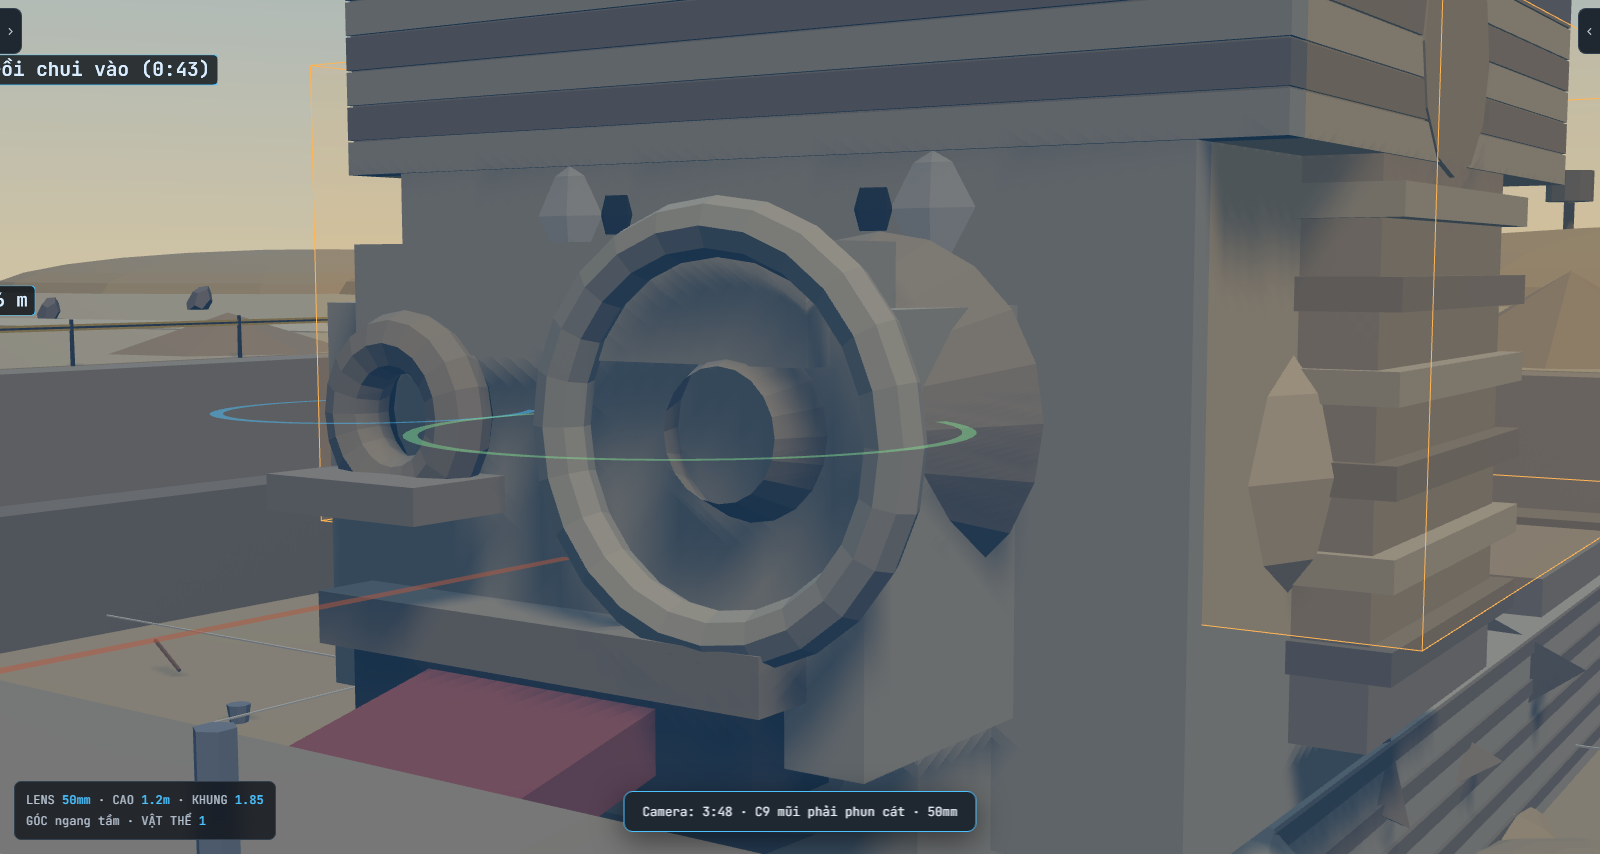
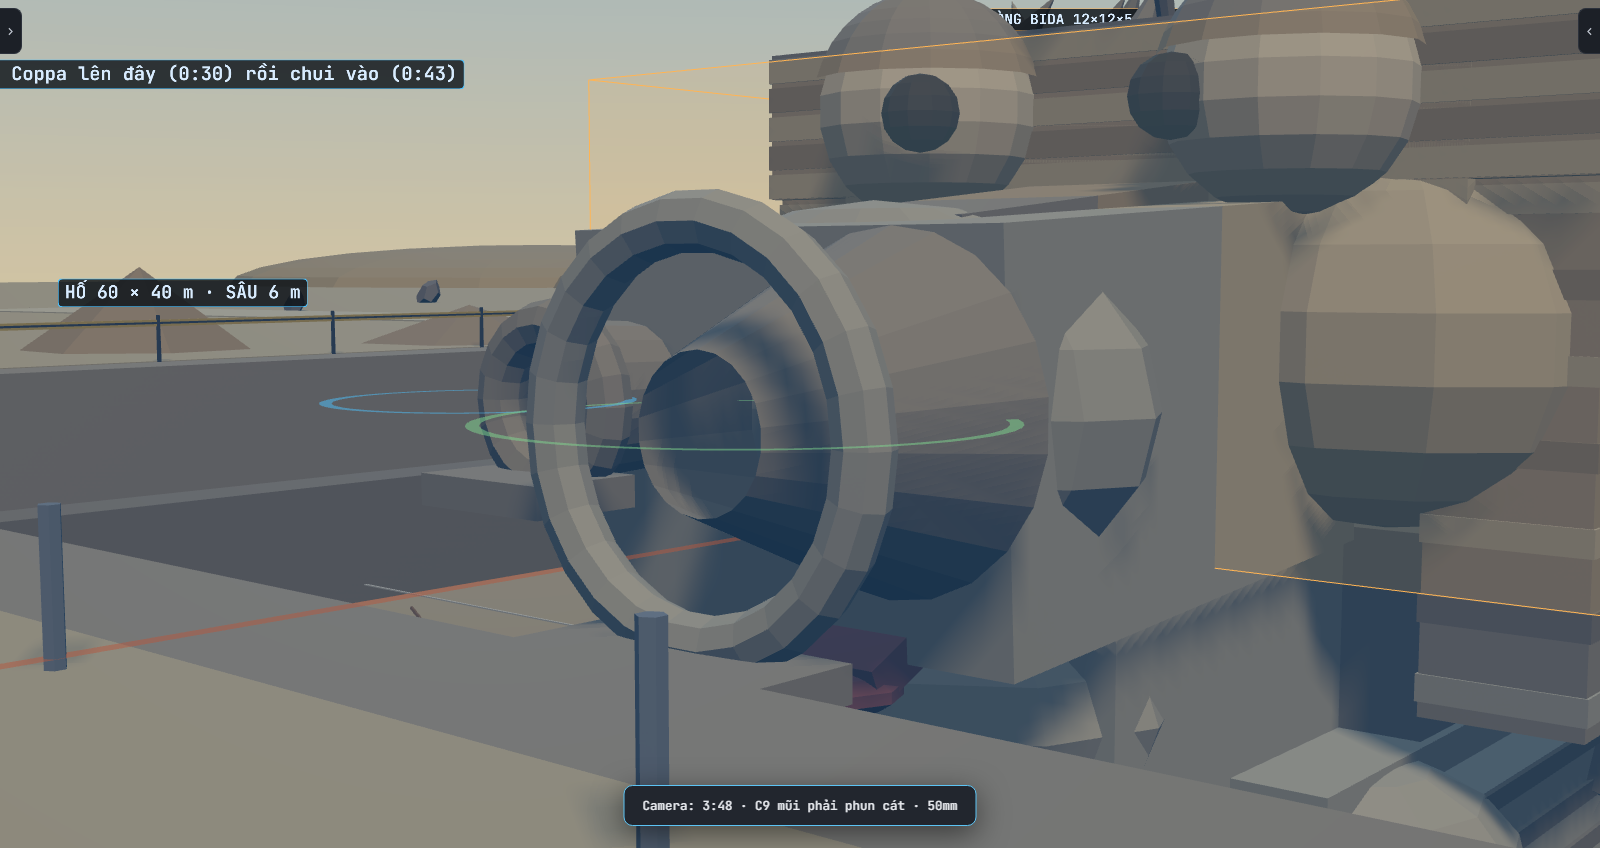
C2: dung lai dau nhan su theo ref Coppa NGUA, lo mui co go dung
Theo anh tham chieu (mat na vang Tutankhamun dau ngua): mom dai nho ra
truoc 7 m, HAI LO MUI o mat truoc mom, mat le loi (mat phai co mang toi),
luoi the, rau ben co dai, khan nemes soc, bom tua tua giua hai tai nhon,
ran ho mang + ken ken tren tran. Van cao dung 9 m (cam -3 -> dinh +6).

Yeu cau chinh: moi lo mui co GO DUNG DUOC (ban cong nho phia truoc) de
dat Coppa 1.0 m len:
- lo mui TRAI o1.2 (x=-1.6): go o y=0.6 -> Coppa dung len la dau vua lot
  mieng lo (chui vao 0:43)
- lo mui PHAI loa ken o3 (x=+1.4) LOE RA NGOAI, go o y=-0.3
Toa do hai lo mui dat thanh hang so C2_NOSE_L/R; ong ken trong dau, vong
zone va 3 bookmark ngam vao mui bam theo. Mat na vang trong phong bida
(C8) doi thanh mat ngua cho khop.

diff --git a/jenny-pixel-studio.html b/jenny-pixel-studio.html
@@ -3467,7 +3467,8 @@ const C2={
 };
 const C2_PIT={w:60,d:40,deep:6};              // hố 60 × 40, sâu 6 m
 const C2_HEAD={h:9,w:10,dp:10,chin:-3};       // đầu 9 m, cằm y=-3, đỉnh bờm y=+6
-const C2_FACE_Z=13.2;                         // mặt phẳng trước của mặt tượng (mõm + gờ mũi)
+const C2_FACE_Z=15.3;                         // mặt trước mõm ngựa + lỗ mũi nhô ra
+const C2_NOSE_L=[-1.6,4.2,7.4], C2_NOSE_R=[1.4,4.2,7.4];   // lỗ mũi trái (ø1.2) / phải (loe ø3), cục bộ đầu
 const C2_NOSE_Y=1.2;                          // cao độ hai lỗ mũi
 const C2_TAPE_Z=28;                           // dây phong tỏa: cách chân tượng (z=+18) 10 m
 const C2_POST_Z=26;                           // bục gác, ngay TRONG dây
@@ -3607,89 +3608,74 @@ function buildC2Body(){
   return g;
 }
 
-/* ---- ĐẦU TƯỢNG MẶT COPPA — gốc cục bộ ở CẰM, dựng lên 9 m ----
-   Đặt ở [0, -3, 7] trong set → cằm y=-3, đỉnh bờm y=+6.                */
+/* ---- ĐẦU TƯỢNG MẶT COPPA (NGỰA) — gốc cục bộ ở CẰM, cao 9 m, theo ref mặt nạ vàng ----
+   Mõm dài nhô ra trước, HAI LỖ MŨI ở đầu mõm và mỗi lỗ có GỜ ĐỨNG ĐƯỢC (ban công nhỏ)
+   để đặt Coppa 1.0 m lên. Mắt lé lồi (một bên mảng tối), lưỡi thè, râu bện, nemes sọc,
+   bờm tua tủa, tai nhọn, rắn hổ mang trên trán. Đặt ở [0,-3,7] → cằm y=-3, đỉnh y=+6. */
 function buildC2Head(){
   const g=new THREE.Group();
-  const W=C2_HEAD.w,H=C2_HEAD.h,DP=C2_HEAD.dp;
-  // khối đầu
-  const skull=box(W-1.4,H*.72,DP-1.2,C2.lime);skull.position.set(0,H*.42,-.3);g.add(skull);
-  // má bầu hai bên (nét Coppa)
-  [-1,1].forEach(s=>{
-    const cheek=gmesh(new THREE.SphereGeometry(2.1,10,8),C2.lime);
-    cheek.scale.set(1,.9,.85);cheek.position.set(s*2.6,3.6,1.8);g.add(cheek);
-  });
-  // mõm nhô ra trước
-  const muzzle=box(5.6,3.4,4.8,C2.lime);muzzle.position.set(0,3.4,4.0);g.add(muzzle);  // nhô 2.1 m khỏi trán
-  // HÀM + CẰM: đáy khối này chính là cằm (y=0 cục bộ) — mốc để đầu cao đúng 9 m
-  const jaw=box(5.2,2.4,5.0,C2.lime);jaw.position.set(0,1.2,2.8);g.add(jaw);
-  const chin=gmesh(new THREE.SphereGeometry(1.9,10,8),C2.lime);
-  chin.scale.set(1.25,.7,.9);chin.position.set(0,1.33,4.3);g.add(chin);  // đáy cầu chạm đúng y=0
-  const neck=box(6.2,2.6,3.4,C2.lime2);neck.position.set(0,1.3,-1.2);g.add(neck);
-  // khăn NEMES + bờm: hai vạt xuôi xuống hai vai
-  const nemes=box(W,2.4,DP-.6,C2.lime2);nemes.position.set(0,H-1.2,-.6);g.add(nemes);
-  for(let i=0;i<7;i++){
-    const st=box(W+.06,.34,DP-.5,i%2?C2.lime3:C2.lime);
-    st.position.set(0,H-2.3-i*.001,-.6);st.position.y=H-.3-i*.36;st.castShadow=false;g.add(st);
-  }
-  [-1,1].forEach(s=>{
-    const lap=box(1.5,5.2,4.2,C2.lime2);lap.position.set(s*(W/2-.75),H*.42,-.4);g.add(lap);
-    for(let i=0;i<6;i++){
-      const st=box(1.95,.3,4.45,i%2?C2.lime3:C2.lime);
-      st.position.set(s*(W/2-.75),H*.42+2.2-i*.8,-.4);st.castShadow=false;g.add(st);
-    }
-  });
-  // tai tròn nhô hai bên khăn
-  [-1,1].forEach(s=>{
-    const ear=gmesh(new THREE.CylinderGeometry(1.15,1.15,.7,12),C2.lime2);
-    ear.rotation.z=Math.PI/2;ear.position.set(s*(W/2-.3),H-1.6,-.4);g.add(ear);
-  });
-  // MẮT LÉ — hai con ngươi dồn về giữa (dấu ấn design Coppa)
-  [-1,1].forEach(s=>{
-    const EY=5.9;                                  // mắt cao 5.9 cục bộ = y 2.9 — cách mũi 1.7 m
-    const socket=gmesh(new THREE.SphereGeometry(1.5,12,10),C2.lime2);
-    socket.scale.z=.5;socket.position.set(s*2.0,EY,3.2);g.add(socket);
-    const eye=gmesh(new THREE.SphereGeometry(1.22,12,10),C2.bone);
-    eye.scale.z=.45;eye.position.set(s*2.0,EY,3.6);g.add(eye);
-    const pupil=gmesh(new THREE.SphereGeometry(.46,10,8),'#2a2620');
-    pupil.scale.z=.4;pupil.position.set(s*1.42,EY,3.94);g.add(pupil);   // dồn vào trong = lé
-    const brow=box(3.0,.45,.5,C2.lime3);brow.position.set(s*2.0,EY+1.55,3.5);brow.rotation.z=-s*.14;g.add(brow);
-  });
-  // ── HAI LỖ MŨI: trái nhỏ ø1.2 (ngồi + chui lọt), phải loe loa kèn ø3 ──
-  const ny=C2_NOSE_Y-C2_HEAD.chin;            // đổi sang toạ độ cục bộ của đầu
-  const nz=6.2;                               // mặt trước của mõm
-  // MŨI TRÁI (−X = trái khung khi nhìn thẳng mặt tượng)
-  const lnose=new THREE.Group();lnose.position.set(-1.4,ny,nz);
-  const lrim=gmesh(new THREE.TorusGeometry(.6,.26,8,20),C2.lime2);lrim.position.z=.6;lnose.add(lrim);
-  const lhole=gmesh(new THREE.CylinderGeometry(.6,.52,2.6,16,1,true),'#2b2720');
-  lhole.rotation.x=Math.PI/2;lhole.position.z=-.6;lhole.material.side=THREE.DoubleSide;lnose.add(lhole);
-  const lledge=box(1.7,.3,1.0,C2.lime2);lledge.position.set(0,-.62,.85);lnose.add(lledge); // gờ ngồi vắt vẻo
+  const H=C2_HEAD.h,W=C2_HEAD.w;
+  const band=(w,h,d,x,y,z,c)=>{const b=box(w,h,d,c);b.position.set(x,y,z);g.add(b);return b;};
+  // sọ + hai má bầu
+  band(7.6,4.4,6.0,0,5.6,-1.4,C2.lime);
+  [-1,1].forEach(sx=>{const ch=gmesh(new THREE.SphereGeometry(2.3,12,9),C2.lime);ch.scale.set(1,.85,.9);ch.position.set(sx*2.7,4.6,.6);g.add(ch);});
+  // cổ/họng đỡ đầu + hàm dưới (đáy = cằm y=0)
+  band(6.2,2.6,4.2,0,1.3,-1.6,C2.lime2);
+  band(4.4,2.6,5.6,0,1.3,2.4,C2.lime);
+  const chin=gmesh(new THREE.SphereGeometry(2.0,10,8),C2.lime);chin.scale.set(1.15,.62,1);chin.position.set(0,1.24,4.6);g.add(chin);
+  // MÕM NGỰA dài, nhô 7 m về trước, hơi chúc xuống
+  const muzzle=box(4.8,3.6,6.4,C2.lime);muzzle.position.set(0,4.1,4.0);muzzle.rotation.x=.06;g.add(muzzle);
+  const tip=gmesh(new THREE.SphereGeometry(2.6,14,10),C2.lime);tip.scale.set(1.12,.7,.55);tip.position.set(0,4.15,5.85);g.add(tip);   // mặt trước ~z 7.3
+  const bridge=box(2.2,.7,5.6,C2.lime2);bridge.position.set(0,5.75,3.2);bridge.rotation.x=.1;g.add(bridge);   // sống mũi — đường leo
+  // ── HAI LỖ MŨI ở đầu mõm + GỜ ĐỨNG ──
+  const [lx,ny,nz]=C2_NOSE_L,[rx]=C2_NOSE_R;
+  const lnose=new THREE.Group();lnose.position.set(lx,ny,nz);
+  const ltube=gmesh(new THREE.CylinderGeometry(.72,.68,.9,18,1,true),C2.lime2);ltube.rotation.x=Math.PI/2;ltube.position.z=.45;ltube.material.side=THREE.DoubleSide;lnose.add(ltube);
+  const lrim=gmesh(new THREE.TorusGeometry(.68,.22,8,20),C2.lime2);lrim.position.z=.9;lnose.add(lrim);
+  const lhole=gmesh(new THREE.CircleGeometry(.6,18),'#2b2720');lhole.position.z=.02;lnose.add(lhole);               // miệng lỗ tối (ø1.2)
+  const lledge=box(1.5,.28,1.1,C2.lime2);lledge.position.set(0,-.74,1.2);lnose.add(lledge);          // gờ đứng phía trước, mặt trên y = ny-0.6
   g.add(lnose);
-  // MŨI PHẢI (+X) — loe như loa kèn, miệng ø3 m
-  const rnose=new THREE.Group();rnose.position.set(1.8,ny,nz);
-  const bell=gmesh(new THREE.CylinderGeometry(1.5,.5,2.2,20,1,true),C2.lime2);
-  bell.rotation.x=-Math.PI/2;bell.position.z=-.5;bell.material.side=THREE.DoubleSide;rnose.add(bell);
-  const bellRim=gmesh(new THREE.TorusGeometry(1.5,.22,8,24),C2.lime);bellRim.position.z=.6;rnose.add(bellRim);
-  const throat=gmesh(new THREE.CylinderGeometry(.5,.34,1.6,12,1,true),'#241f19');
-  throat.rotation.x=Math.PI/2;throat.position.z=-2.2;throat.material.side=THREE.DoubleSide;rnose.add(throat);
+  const rnose=new THREE.Group();rnose.position.set(rx,ny,nz);
+  const bell=gmesh(new THREE.CylinderGeometry(1.5,.6,2.2,22,1,true),C2.lime2);bell.rotation.x=-Math.PI/2;bell.position.z=1.1;bell.material.side=THREE.DoubleSide;rnose.add(bell);   // loe ra ngoài, miệng ø3 ở z+2.2
+  const bellRim=gmesh(new THREE.TorusGeometry(1.5,.22,8,26),C2.lime);bellRim.position.z=2.2;rnose.add(bellRim);
+  const throat=gmesh(new THREE.CircleGeometry(.58,16),'#241f19');throat.position.z=.02;rnose.add(throat);          // họng tối trong loa
+  const rledge=box(2.4,.28,1.1,C2.lime2);rledge.position.set(0,-1.64,2.5);rnose.add(rledge);         // gờ đứng dưới miệng loa
   g.add(rnose);
-  // sống mũi nối hai lỗ (đường leo của Coppa)
-  const bridge=box(4.6,.9,1.2,C2.lime);bridge.position.set(.2,ny+.95,nz-.1);g.add(bridge);
-  // MIỆNG + LƯỠI ĐÁ dài 3 m (chỉ là dấu ấn design, không dùng làm gag)
-  const mouth=box(4.2,.9,1.0,'#3a342b');mouth.position.set(0,ny-2.3,nz+.1);g.add(mouth);
-  const lip=box(4.6,.45,1.2,C2.lime2);lip.position.set(0,ny-1.75,nz+.2);g.add(lip);
-  const tongue=box(2.4,.5,3.0,'#a8564e');
-  tongue.position.set(0,ny-2.55,nz+1.5);tongue.rotation.x=.22;g.add(tongue);
-  const tongueTip=gmesh(new THREE.SphereGeometry(1.2,10,8),'#a8564e');
-  tongueTip.scale.set(1,.2,.7);tongueTip.position.set(0,ny-3.15,nz+2.9);g.add(tongueTip);
-  // phong hóa + vết nứt
-  const R=rnd(43);
-  for(let i=0;i<12;i++){
-    const side=i%2?1:-1;
-    const c=box(.16,.5+R()*1.5,.16,C2.crack);
-    c.position.set(side*(W/2-1.0),H*.18+R()*H*.55,-3.2+R()*5.4);
-    c.rotation.set(0,0,(R()-.5)*.7);c.castShadow=false;g.add(c);
+  // MẮT LÉ LỒI: hai cầu to hai bên sọ, con ngươi dồn vào giữa; mắt phải có MẢNG TỐI quanh
+  [-1,1].forEach(sx=>{
+    const eye=gmesh(new THREE.SphereGeometry(1.25,14,11),C2.bone);eye.position.set(sx*2.2,7.1,2.1);g.add(eye);
+    const pupil=gmesh(new THREE.SphereGeometry(.42,10,8),'#2a2620');pupil.position.set(sx*1.5,7.0,3.15);g.add(pupil);
+    const lid=gmesh(new THREE.SphereGeometry(1.32,14,8,0,Math.PI*2,0,Math.PI*.42),C2.lime2);lid.position.set(sx*2.2,7.15,2.1);g.add(lid);
+  });
+  const patch=gmesh(new THREE.CylinderGeometry(1.75,1.75,.12,20),'#4a4237');patch.rotation.x=Math.PI/2;patch.position.set(2.2,7.1,1.5);g.add(patch);
+  // LƯỠI THÈ dưới mõm, lệch phải như ref
+  const tongue=box(1.3,.36,2.6,'#a8564e');tongue.position.set(.7,2.5,6.3);tongue.rotation.x=.42;g.add(tongue);
+  const tTip=gmesh(new THREE.SphereGeometry(.75,10,7),'#a8564e');tTip.scale.set(1,.3,.8);tTip.position.set(.7,1.9,7.4);g.add(tTip);
+  // RÂU BỆN từ cằm rủ xuống, có đai
+  const beard=cyl(.5,.42,2.5,C2.lime2,10);beard.position.set(0,-1.1,3.75);beard.rotation.x=.18;g.add(beard);
+  for(let k=0;k<4;k++){const r=torus3(.52,.07,C2.lime3,14);r.rotation.x=.18;r.position.set(0,-.3-k*.62,3.6+k*.11);g.add(r);}
+  const bTip=gmesh(new THREE.SphereGeometry(.55,10,8),C2.lime3);bTip.position.set(0,-2.4,4.05);g.add(bTip);
+  // KHĂN NEMES: đỉnh + hai vạt rủ xuống vai, sọc ngang
+  band(W,1.8,6.4,0,H-1.9,-1.6,C2.lime2);
+  for(let k=0;k<5;k++)band(W+.06,.3,6.45,0,H-1.2-k*.36,-1.6,k%2?C2.lime3:C2.lime).castShadow=false;
+  [-1,1].forEach(sx=>{
+    band(1.6,5.4,4.4,sx*(W/2-.8),H*.4,-.8,C2.lime2);
+    for(let k=0;k<7;k++)band(1.65,.28,4.45,sx*(W/2-.8),H*.4+2.4-k*.8,-.8,k%2?C2.lime3:C2.lime).castShadow=false;
+  });
+  // BỜM tua tủa giữa hai tai + TAI NHỌN
+  const R=rnd(53);
+  for(let k=0;k<11;k++){
+    const c=cone(.42,1.6,C2.lime2,6);c.position.set(-3+k*.6,H-1.6+.8,-1.6+(R()-.5)*1.4);c.rotation.set((R()-.5)*.5,0,(k-5)*.13);g.add(c);
   }
+  [-1,1].forEach(sx=>{const ear=cone(.7,2.2,C2.lime,8);ear.position.set(sx*2.9,H-1.2,-1.2);ear.rotation.z=-sx*.35;g.add(ear);
+    const inner=cone(.4,1.5,C2.lime3,8);inner.position.set(sx*2.9,H-1.35,-.95);inner.rotation.z=-sx*.35;g.add(inner);});
+  // RẮN HỔ MANG + KỀN KỀN trên trán
+  const cobra=cyl(.14,.1,1.5,C2.lime3,8);cobra.position.set(.45,H-.3,1.6);cobra.rotation.x=.3;g.add(cobra);
+  const hood=gmesh(new THREE.SphereGeometry(.42,8,6),C2.lime3);hood.scale.set(1,1.3,.5);hood.position.set(.45,H+.2,1.75);g.add(hood);
+  const vul=gmesh(new THREE.SphereGeometry(.3,8,6),C2.lime3);vul.position.set(-.5,H-.2,1.7);g.add(vul);
+  const beak=cone(.12,.5,C2.lime3,6);beak.rotation.x=Math.PI/2;beak.position.set(-.5,H-.2,2.1);g.add(beak);
+  // vết nứt phong hóa ở hai vạt khăn
+  for(let k=0;k<10;k++){const c=box(.16,.5+R()*1.5,.16,C2.crack);c.position.set((k%2?1:-1)*(W/2-.9),H*.2+R()*H*.5,-3+R()*4.4);c.rotation.z=(R()-.5)*.6;c.castShadow=false;g.add(c);}
   g.userData.h=H;
   return g;
 }
@@ -3698,7 +3684,7 @@ function buildC2Head(){
    Ẩn trong đầu; muốn xem thì tắt bộ phận "Đầu tượng" trong danh sách.  */
 function buildC2Horn(){
   const g=new THREE.Group();
-  const ny=C2_NOSE_Y-C2_HEAD.chin, nz=3.4;
+  const ny=C2_NOSE_L[1], nz=C2_NOSE_L[2];
   // khoang phòng bida 8 × 8 × 4 m (set 3 nằm đúng chỗ này)
   // phòng bida đã nới lên 12×12×5 — LỚN HƠN đầu tượng 10 m. Khung vẽ đúng cỡ để thấy chênh lệch:
   // hoặc chấp nhận cheat hoạt hình (trong rộng hơn ngoài), hoặc phóng đầu tượng lên ~14 m.
@@ -3712,11 +3698,11 @@ function buildC2Horn(){
   // Hai lỗ mũi ĐỔ THẲNG vào phòng (chỉ đạo: cửa hang chính là hai lỗ mũi).
   // Phòng bida là khoang cộng hưởng: tiếng xì vào mũi trái, vang trong phòng, phụt ra mũi phải.
   const curve=new THREE.CatmullRomCurve3([
-    new THREE.Vector3(-1.4,ny,nz-.4),
-    new THREE.Vector3(-1.4,ny+.2,-1.0),
-    new THREE.Vector3(-0.2,ny+.4,-2.4),
-    new THREE.Vector3( 1.2,ny+.2,-1.0),
-    new THREE.Vector3( 1.8,ny,nz-.8)
+    new THREE.Vector3(C2_NOSE_L[0],ny,nz-.6),
+    new THREE.Vector3(-1.6,ny+.1,2.0),
+    new THREE.Vector3(-0.2,ny+.5,-2.4),
+    new THREE.Vector3( 1.4,ny+.1,2.0),
+    new THREE.Vector3(C2_NOSE_R[0],ny,nz-.9)
   ]);
   const tube=new THREE.Mesh(new THREE.TubeGeometry(curve,50,.62,10,false),
     new THREE.MeshStandardMaterial({color:'#6f6355',roughness:.9,flatShading:true,side:THREE.DoubleSide}));
@@ -3908,8 +3894,8 @@ function buildC2Zones(){
   axis.rotation.x=-Math.PI/2;axis.position.set(0,.09,(C2_POST_Z+C2_FACE_Z)/2);g.add(axis);
   g.add(tag('TRỤC CHỒNG KHUNG — mặt Coppa ⟷ mặt tượng (50–85 mm)',-17,1.5,19,1.6,EG.red));
   z(2.0,0,0,C2_POST_Z,EG.warm); g.add(tag('Z_BỤC GÁC — Pipo + Coppa (0:20)',0,2.6,C2_POST_Z+2.6,1.35,EG.warm));
-  z(1.3,-1.4,C2_NOSE_Y,C2_FACE_Z+.9); g.add(tag('Z_MŨI TRÁI ø1.2 — ngồi vắt vẻo (0:30) rồi chui vào (0:43)',-8.5,4.4,C2_FACE_Z+1,1.5));
-  z(2.0,1.8,C2_NOSE_Y,C2_FACE_Z+.9,'#7fd88f'); g.add(tag('Z_MŨI PHẢI ø3 — kèn nổ (0:35) · phun cát (3:48)',9.5,5.6,C2_FACE_Z+1,1.5,'#7fd88f'));
+  z(1.3,C2_NOSE_L[0],C2_NOSE_Y,C2_FACE_Z+.8); g.add(tag('Z_MŨI TRÁI ø1.2 — có GỜ ĐỨNG: đặt Coppa lên đây (0:30) rồi chui vào (0:43)',-8.5,4.4,C2_FACE_Z+1,1.5));
+  z(2.0,C2_NOSE_R[0],C2_NOSE_Y,C2_FACE_Z+.8,'#7fd88f'); g.add(tag('Z_MŨI PHẢI ø3 — kèn nổ (0:35) · phun cát (3:48)',9.5,5.6,C2_FACE_Z+1,1.5,'#7fd88f'));
   z(1.2,7,-C2_PIT.deep,19); g.add(tag('Z_BẢNG KHẢO CỔ — insert 0:38',9,-3.6,19,1.2));
   z(3.0,0,0,34,'#7fd88f'); g.add(tag('Z_ĐÁM ĐÔNG — ngoài dây, 36 người',0,3.0,38,1.4,'#7fd88f'));
   z(3.0,0,0,31,EG.warm); g.add(tag('Z_RƠI C9 — hai đứa bắn ra mũi phải, rơi ở đây (3:45)',0,2.2,29.5,1.4,EG.warm));
@@ -4227,12 +4213,17 @@ function buildBdStateB(){
   g.add(th);
   // MẶT NẠ VÀNG đúc theo mặt Coppa (mắt lé, lưỡi thè) đặt trên ngai
   const mask=new THREE.Group();mask.position.set(3.25,1.0,.6);mask.rotation.y=-Math.PI/2;
-  const face=gmesh(new THREE.SphereGeometry(.3,12,10),BD.gold);face.scale.set(1,1.15,.65);mask.add(face);
+  const face=gmesh(new THREE.SphereGeometry(.28,12,10),BD.gold);face.scale.set(1,1.1,.8);mask.add(face);
+  const mz=gmesh(new THREE.SphereGeometry(.2,10,8),BD.gold);mz.scale.set(1,.7,1.5);mz.position.set(0,-.1,.3);mask.add(mz);   // mõm ngựa
   [-1,1].forEach(s=>{
-    const e=sph(.075,'#2a2620',8);e.position.set(s*.1,.06,.2);mask.add(e);   // mắt lé: dồn vào giữa
+    const w=sph(.11,BD.bone||'#e8e0cc',8);w.position.set(s*.2,.12,.17);mask.add(w);
+    const e=sph(.045,'#2a2620',8);e.position.set(s*.13,.12,.27);mask.add(e);   // mắt lé lồi: dồn vào giữa
+    const ear=cone(.06,.22,BD.gold2,6);ear.position.set(s*.2,.42,-.02);ear.rotation.z=-s*.3;mask.add(ear);
+    const nos=sph(.04,'#241f19',6);nos.position.set(s*.07,-.1,.58);mask.add(nos);
   });
-  const tongue=box(.09,.03,.16,'#a8564e');tongue.position.set(0,-.16,.24);mask.add(tongue);
-  const beard=cyl(.05,.03,.28,BD.gold2,8);beard.position.set(0,-.3,.16);mask.add(beard);
+  const tongue=box(.09,.03,.18,'#a8564e');tongue.position.set(.05,-.24,.5);tongue.rotation.x=.4;mask.add(tongue);
+  const beard=cyl(.05,.03,.3,BD.gold2,8);beard.position.set(0,-.4,.3);mask.add(beard);
+  for(let k=0;k<3;k++){const c=cone(.04,.14,BD.gold2,5);c.position.set(-.1+k*.1,.4,-.05);mask.add(c);}
   g.add(mask);
   // QUẠT LÁ CỌ Pipo bỏ trơ dưới chân ngai
   const fan=new THREE.Group();fan.position.set(2.6,0,1.5);fan.rotation.set(0,.6,1.35);
@@ -5064,12 +5055,12 @@ const SET_DEFS={
       {t:'—',   n:'Tổng thể hố + tượng',            p:[46,30,92],    tg:[0,-1,6],    f:28},
       {t:'0:15',n:'Wide tượng - hố',                p:[27,9,47],     tg:[0,-.5,7],   f:35},
       {t:'0:20',n:'Hai mặt chồng khung (gag chính)',p:[0,1.95,30.5], tg:[0,1.9,26],  f:50},
-      {t:'0:30',n:'Low angle Coppa trên gờ mũi trái',p:[-6,-4.5,18],  tg:[-1.4,1.4,13],  f:50},
+      {t:'0:30',n:'Low angle Coppa trên gờ mũi trái',p:[-7,-4.5,21],  tg:[-1.6,1.3,15.3],f:50},
       {t:'0:35',n:'Wide kèn nổ - nón bay',          p:[36,10,54],    tg:[0,1,18],    f:24},
       {t:'0:38',n:'Insert bảng khảo cổ',            p:[7.6,-4.0,22.5],tg:[7,-4.9,19.3],f:50},
-      {t:'0:43',n:'Coppa chui mũi trái',            p:[-4.6,1.7,18],  tg:[-1.4,1.2,12.9],f:50},
+      {t:'0:43',n:'Coppa chui mũi trái',            p:[-5.2,1.6,19.5],tg:[-1.6,1.2,15.3],f:50},
       {t:'3:45',n:'C9 wide - đám đông nhặt nón',    p:[-22,5,50],    tg:[0,1,26],    f:35},
-      {t:'3:48',n:'C9 mũi phải phun cát',           p:[9.5,2.4,24],  tg:[1.9,1.2,12.9],f:50},
+      {t:'3:48',n:'C9 mũi phải phun cát',           p:[10,2.4,25.5], tg:[1.4,1.2,15.5],f:50},
       {t:'3:55',n:'C9 Coppa vỗ móng - đám đông quỳ',p:[0,1.7,26],    tg:[0,1.5,36],  f:35}
     ]
   },
